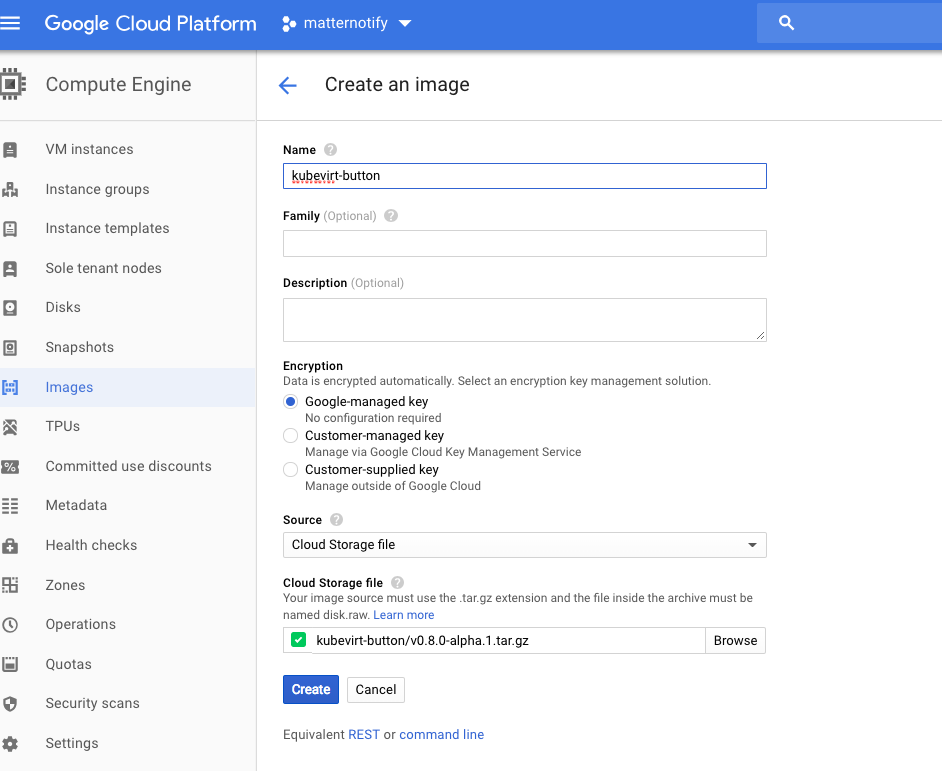
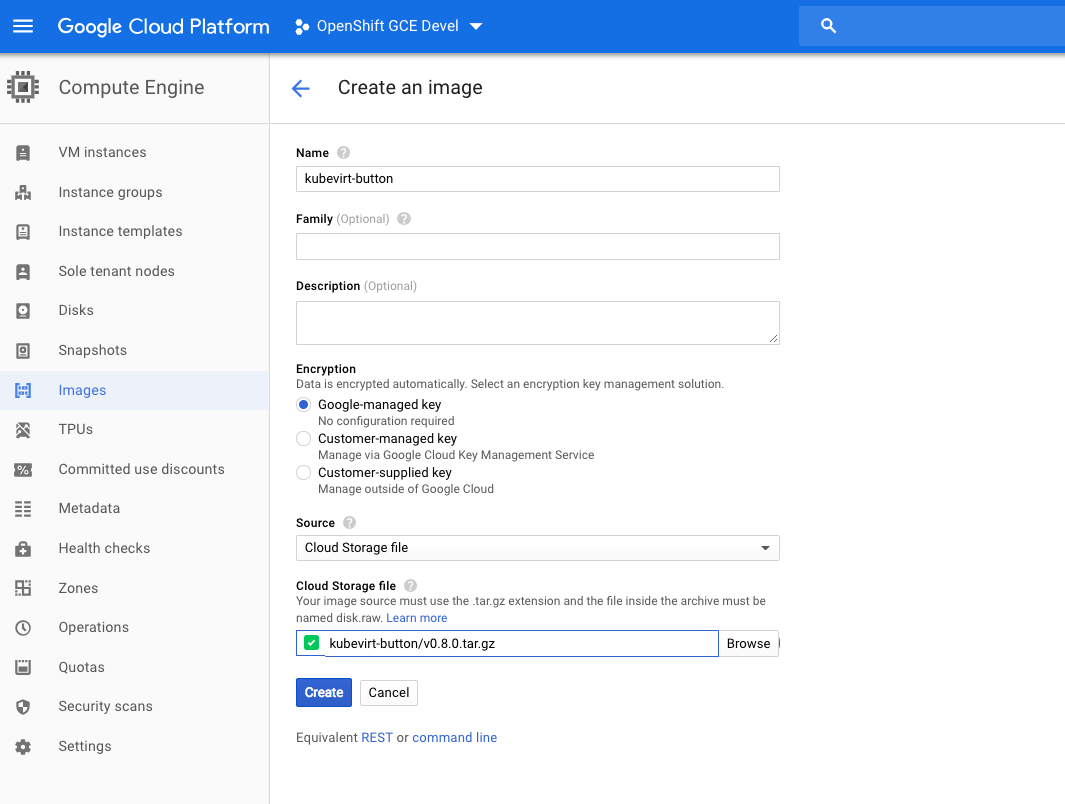
gcp page improvements

diff --git a/pages/gcp.md b/pages/gcp.md
@@ -1,19 +1,16 @@
 ---
 layout: page
-title: Easy Install Using A Public Cloud Provider
+title: Easy Install Using Gcp
 ---
 
-You can try KubeVirt in one of the public clouds that are supported. The
-benefits of this option are that you don't need any hardware yourself, and that
-you can also use the same public cloud as the platform to be managed.
-Note this setup is not meant for production, only to give you a quick taste of kubevirt's functionality
+You can try KubeVirt in Google Cloud Platform
 
-In the instructions below we will use the Google Cloud Platform. The KubeVirt
-project publishes ready-to-use images on [Google
-Storage](https://console.cloud.google.com/storage/browser/kubevirt-button). We will
-assume that you have a Google account with an active payment method or a free
+Note this setup is not meant for production, only to give you a quick taste of KubeVirt's functionality
+
+The KubeVirt project publishes ready-to-use images on [Google Storage](https://console.cloud.google.com/storage/browser/kubevirt-button). 
+
+We will assume that you have a Google account with an active payment method or a free
 trial. You also need to make sure that you have a default keypair installed.
-
 
 ### Step 1: Create a new image
 
@@ -24,15 +21,13 @@ on "Create Image" or click the following [link](https://console.cloud.google.com
 
 Fill in the following data:
 
-{% assign release = site.data.releases["stable"] %}
-
-**Name:** kubevirt-{{release.tag}}
+**Name:** kubevirt-button
 
 **Family:** centos-7 (optional)
 
 **Source:** cloud storage file
 
-**Cloud storage file:** kubevirt-button/{{release.tag}}.tar.gz
+**Cloud storage file:** kubevirt-button/{{ site.kubevirt_version}}.tar.gz
 
 ### Step 2: Create a new instance using the image you created
 
@@ -56,13 +51,16 @@ KubeVirt along with Kubernetes will get provisioned during boot!
 You can now access the instance through ssh and launch vms
 
 ## Step 2: KubeVirt labs
- After you have connected to your instance through SSH, you can
+
+After you have connected to your instance through SSH, you can
 work through a couple of labs to help you get acquainted with KubeVirt
 and how to use it to create and deploy VMs with Kubernetes.
- The first lab is ["Use KubeVirt"](../labs/kubernetes/lab6). This lab walks you
+
+The first lab is ["Use KubeVirt"](../labs/kubernetes/lab6). This lab walks you
 through the creation of a Virtual Machine instance on Kubernetes and then
 shows you how to use virtctl to interact with its console.
- The second lab is ["Experiment with CDI"](../labs/kubernetes/lab7). This
+
+The second lab is ["Experiment with CDI"](../labs/kubernetes/lab7). This
 lab shows you how to use the [Containerized Data Importer](https://github.com/kubevirt/containerized-data-importer)
 (CDI) to import a VM image into a [Persistent Volume Claim](https://kubernetes.io/docs/concepts/storage/persistent-volumes/)
 (PVC) and then how to define a VM to make use of the PVC.
